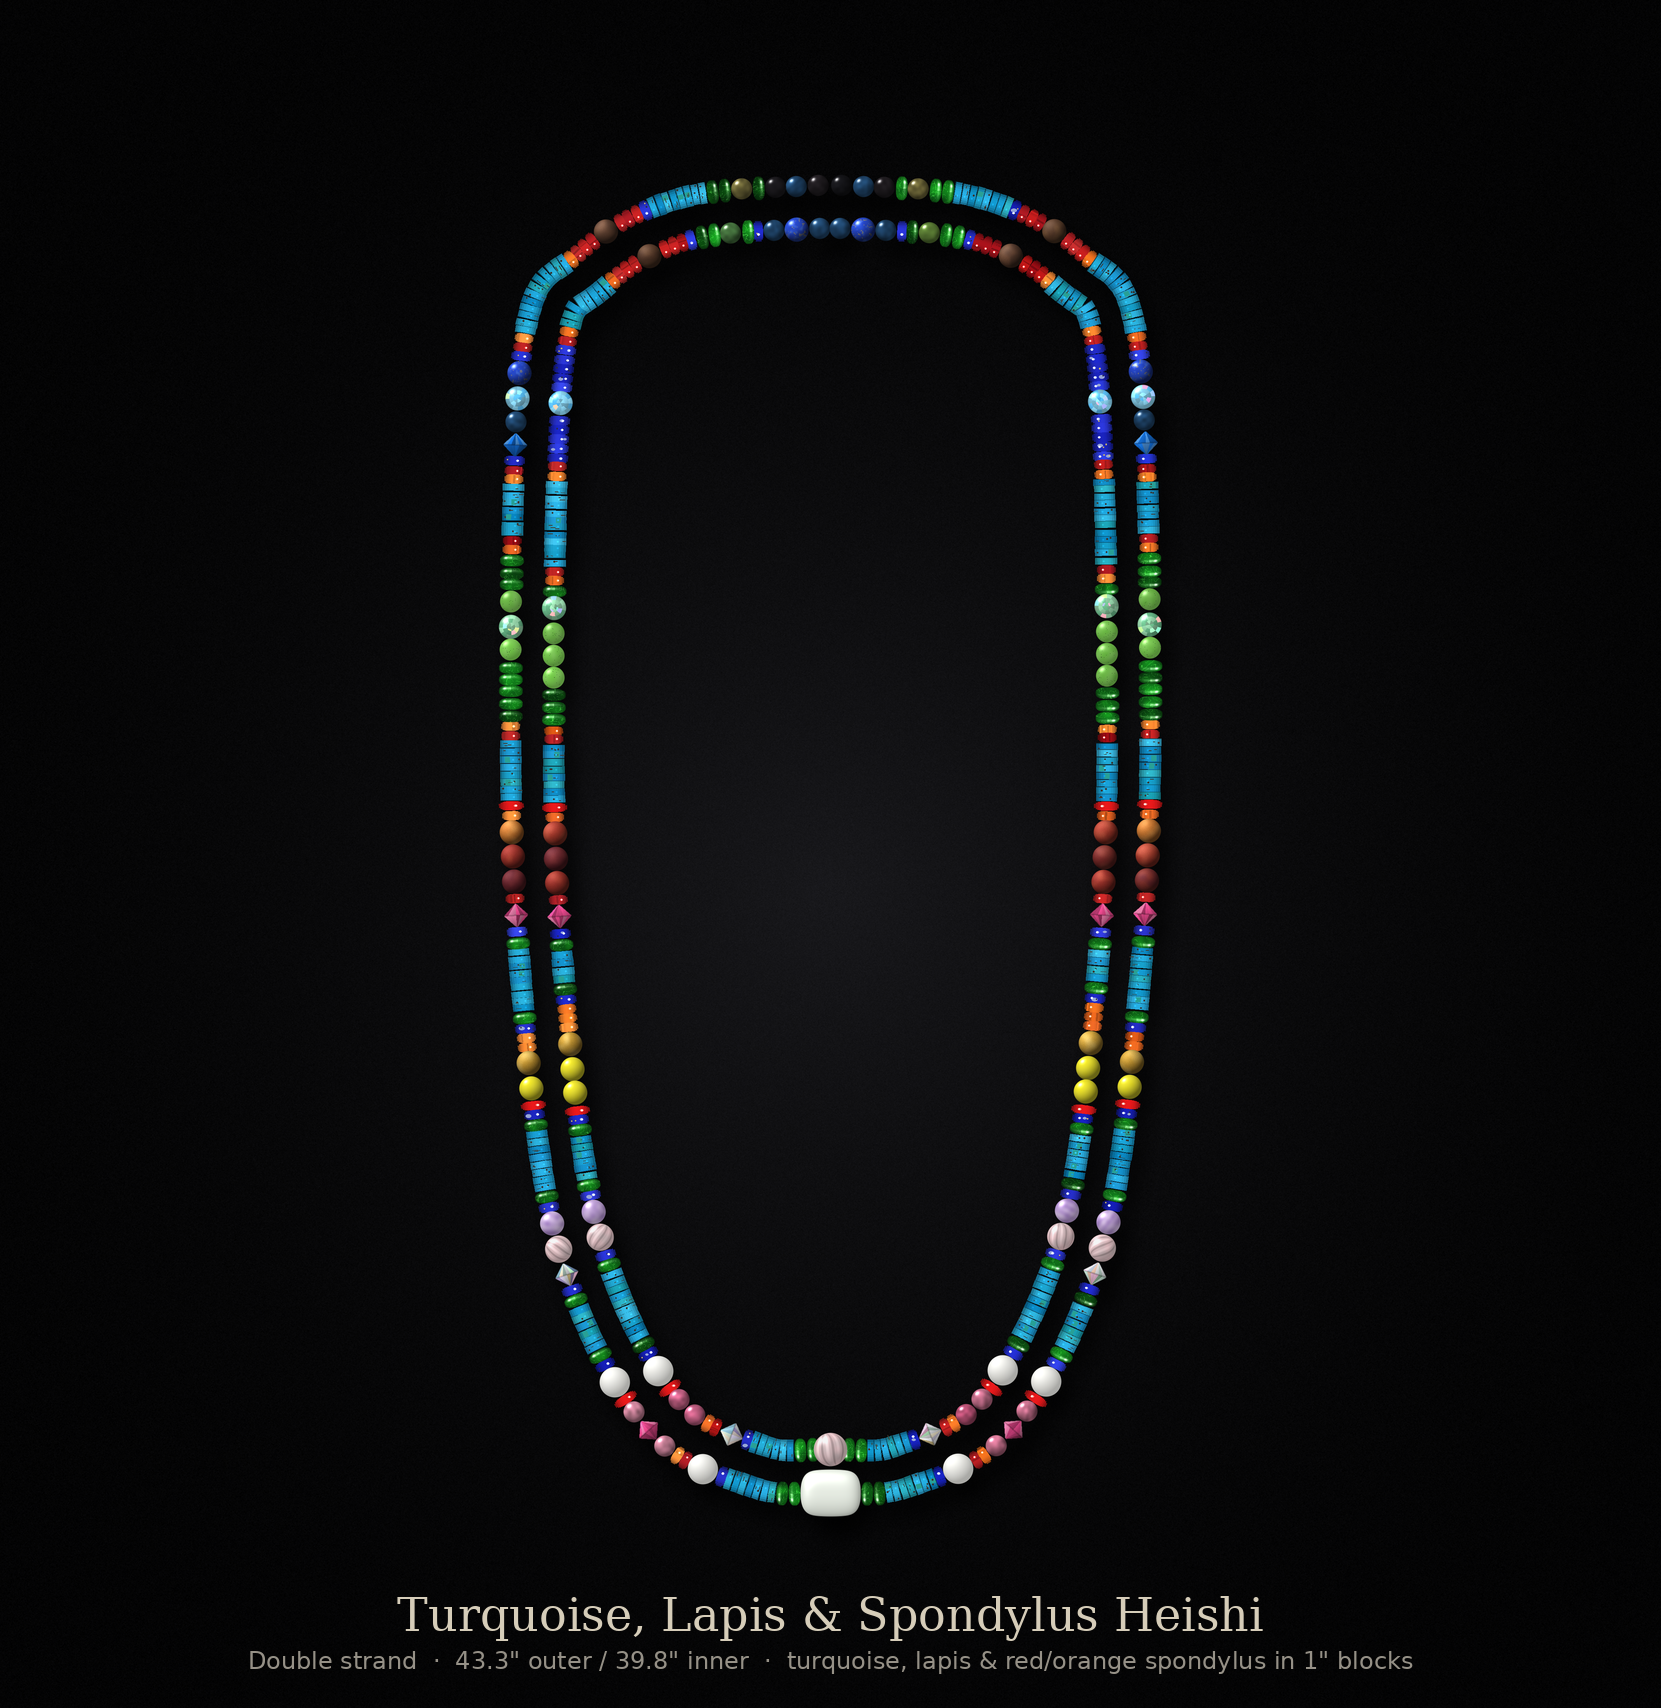
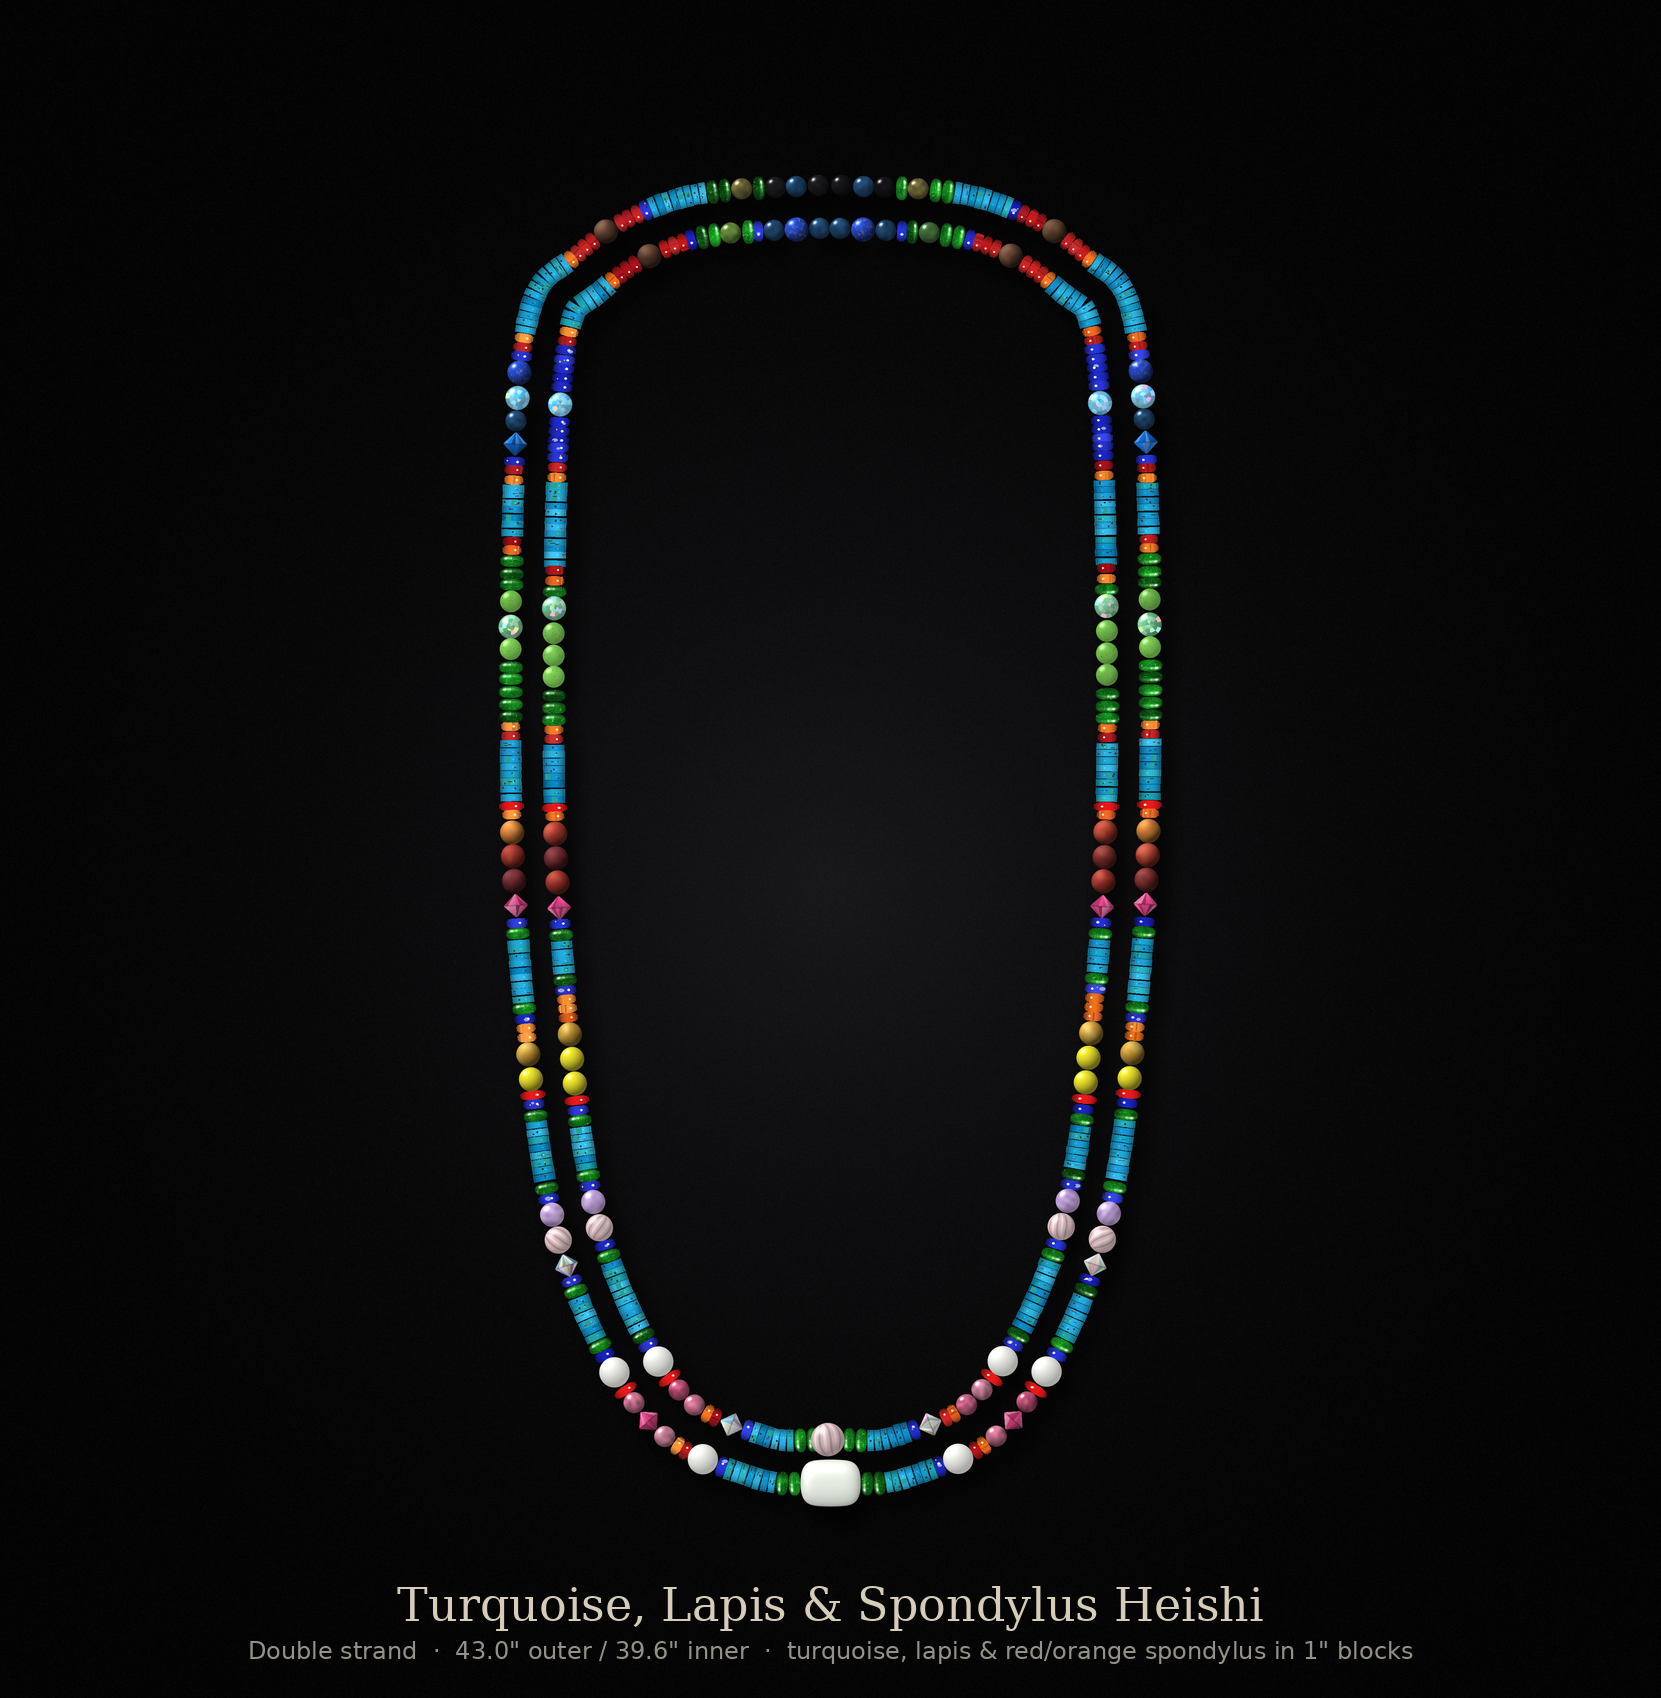
Version 5: remove the red spiny oyster above the mookaite-band rose bicones; 43.0"
Claude-Session: https://claude.ai/code/session_014be1vF4Rdf8sv9Si75Gudv

Changed region(s): [[0.2763, 0.0936, 0.7062, 0.874]]

diff --git a/necklace/render_necklace.py b/necklace/render_necklace.py
@@ -16,7 +16,7 @@ INCH = 25.4
 EXTRAS = False   # False = base design: heishi blocks + white barrels only (jasper/hematite/jade/lapis/spondylus/tourmaline off)
 V5_EXT = 3.0 + 3 * 2.4 if V5 else 0.0   # v5: orange under the blue band + 3 more turquoise heishi below it, per side
 V5_EXT2 = 3.0 if V5 else 0.0             # v5: bottom band's lowest red glass becomes red + orange spiny oyster (+3 mm per side)
-V5_EXT3 = 3.0 if V5 else 0.0             # v5: red spiny oyster above each mookaite-band rose bicone (+3 mm per side)
+V5_EXT3 = 0.0                            # (red above the bicone removed again)             # v5: red spiny oyster above each mookaite-band rose bicone (+3 mm per side)
 C_OUT, GAP, BEAD_D = 42 * INCH + 2 * (V5_EXT + V5_EXT2 + V5_EXT3), (11.2 if EXTRAS else (14.0 if V2 else 10.0)), 7.0   # v2: room for 18 mm naga conch
 C_IN = C_OUT - 2 * math.pi * GAP    # inner strand: 8 mm smaller radius -> ~38"
 NSEG, BPS = 42, 16                  # 1 inch blocks, ~16 heishi (1.6 mm) per block
@@ -1020,8 +1020,6 @@ if V4:
             assert _s[0] == "lapisH" and _s[-1] == "lapisH"
             _s[0] = "orange"                        # top only; the lapis under the rose bicone stays
         _bo.insert(len(_bo) - 1, "diop"); _bi.insert(len(_bi) - 1, "diop")   # chrome diopside right under the rose bicone, lapis below it
-        for _s in (_bo, _bi):
-            _s.insert(_s.index("rbic"), "red")      # red spiny oyster right above the rose bicone
         for _s in (_bo, _bi):
             assert _s[:2] == ["orange", "redglass"]
             _s[:2] = ["redglass", "orange"]         # red glass on top, orange against the mookaite
